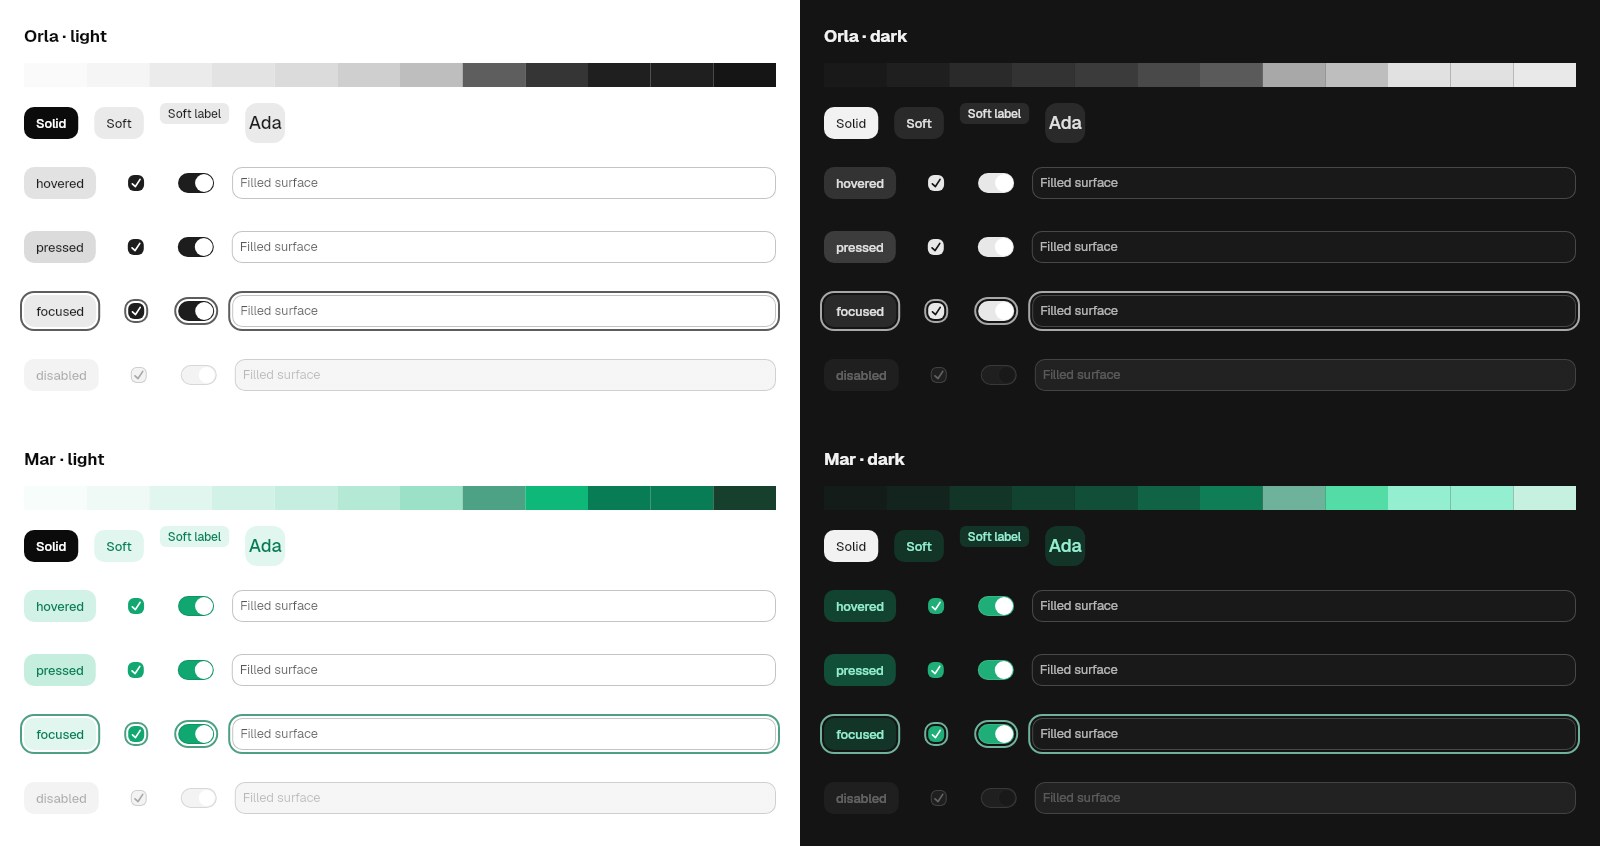
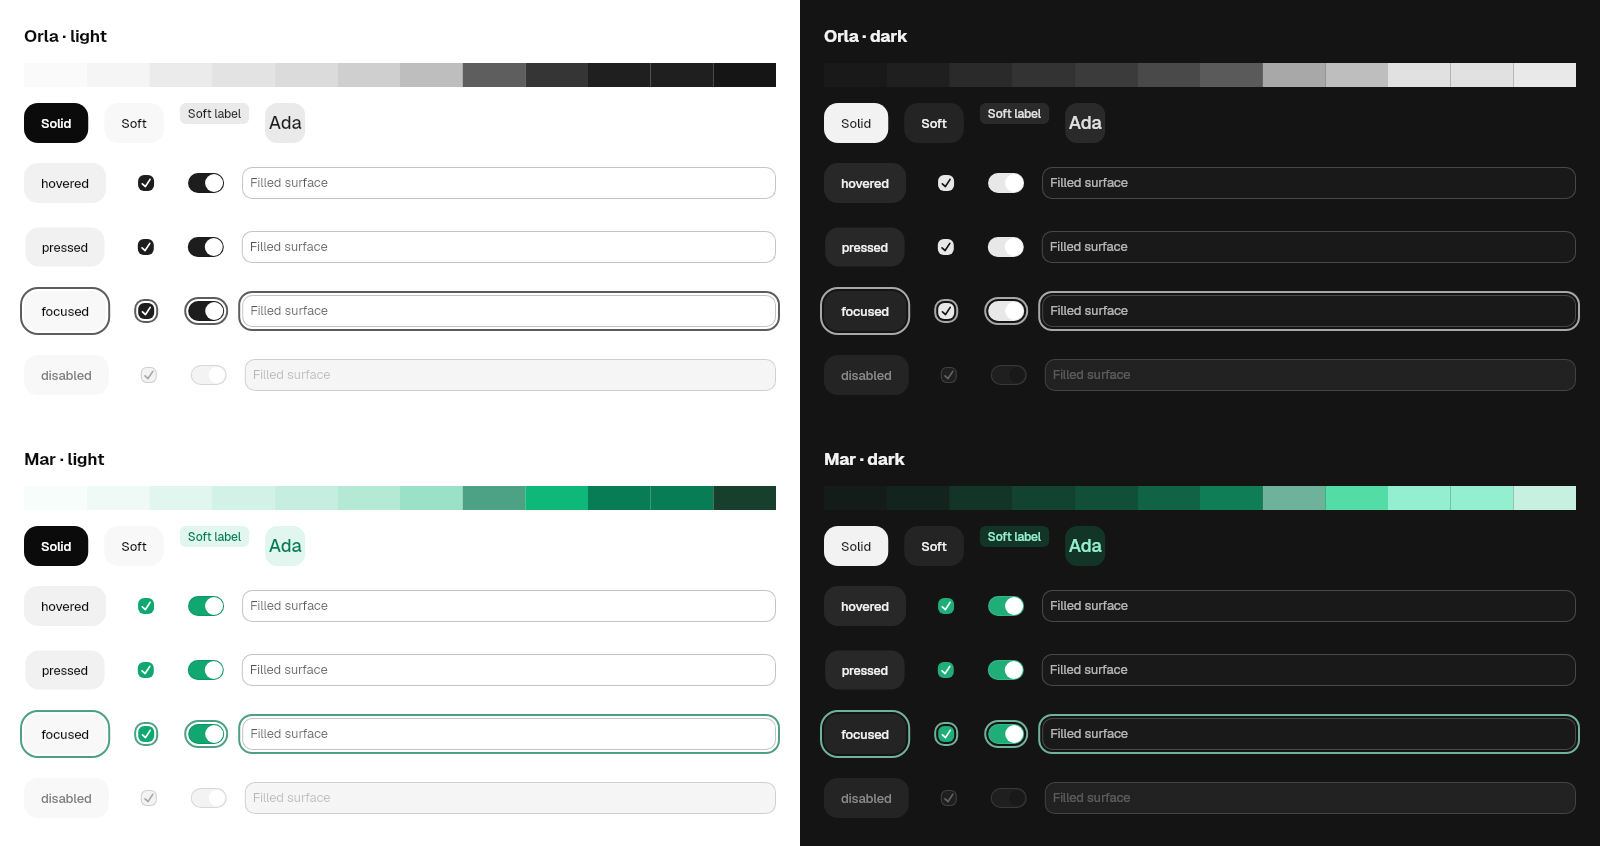
fix(fortal): keep sidebar rows on their own gap and the toggle unanimated
Sidebar destinations build on the ghost toggle; they keep their 4px gap
and take no layout from the toggle's 1px border. The toggle drops its
eased state changes so a row's padding follows the sidebar's expansion
frame by frame.

diff --git a/registry_source/lib/src/fortal/components/toggle.dart b/registry_source/lib/src/fortal/components/toggle.dart
@@ -78,12 +78,6 @@ const _disabledOpacity = 0.45;
 
 const _transparent = Color(0x00000000);
 
-/// Every change of fill, border and text color.
-final _motion = AnimationConfig.curve(
-  duration: FortalMotion.fast,
-  curve: FortalMotion.easeStandard,
-);
-
 /// The on fill: the accent's indicator mixed into the surface, 11% in light
 /// and 14% in dark. Neutral gray under orla, a faint tint under the others.
 const _onFillToken = ContextToken<Color>(_resolveOnFill);
@@ -100,7 +94,6 @@ Color _resolveOnFill(BuildContext context) => mixOklabPremultiplied(
 /// no fill and an opaque box.
 ToggleStyler _base(bool highContrast) =>
     _content(highContrast ? FortalTokens.gray12() : FortalTokens.gray11())
-        .animate(_motion)
         .container(.mainAxisSize(.min))
         .color(_transparent)
         .wrap(.opacity(1))

diff --git a/registry_source/lib/src/fortal/components/sidebar.dart b/registry_source/lib/src/fortal/components/sidebar.dart
@@ -90,6 +90,10 @@ SidebarStyler fortalSidebarStyle({
               highContrast: highContrast,
             )
             .minHeight(FortalTokens.sidebarDestinationMinHeight())
+            // Rows keep their own gap and take no layout from the toggle's
+            // 1px border.
+            .spacing(FortalTokens.space1())
+            .border(.width(0))
             // Selected rows sit a step above the hover fill with full-contrast
             // content. The shared ghost toggle's accent3 fill matches the
             // gray hover fill under the default accent.
